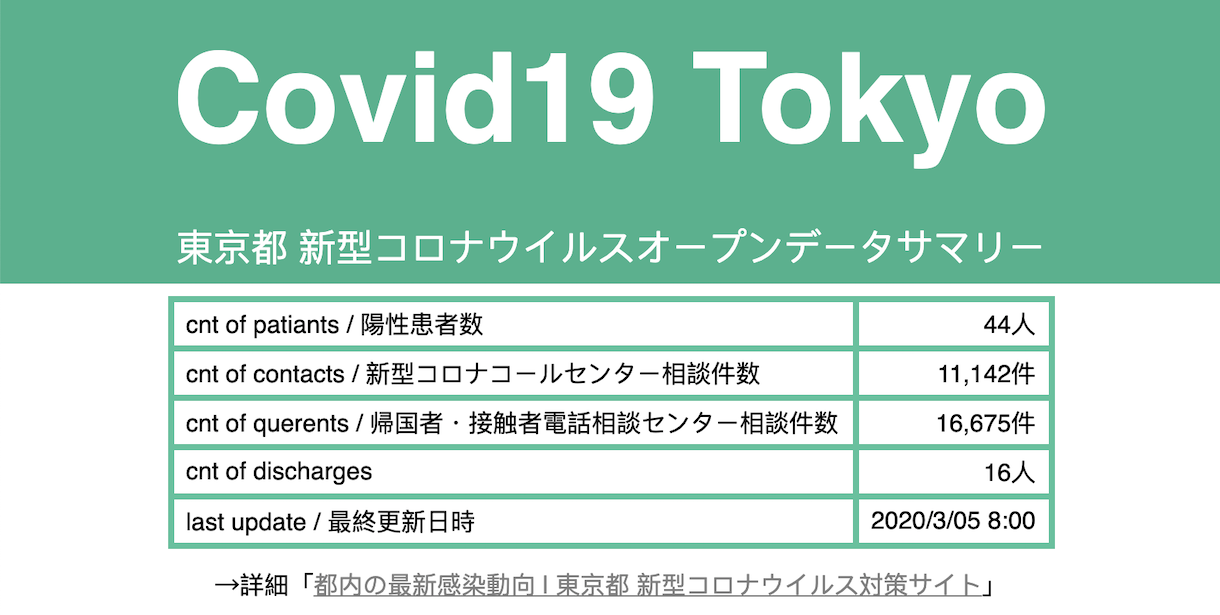
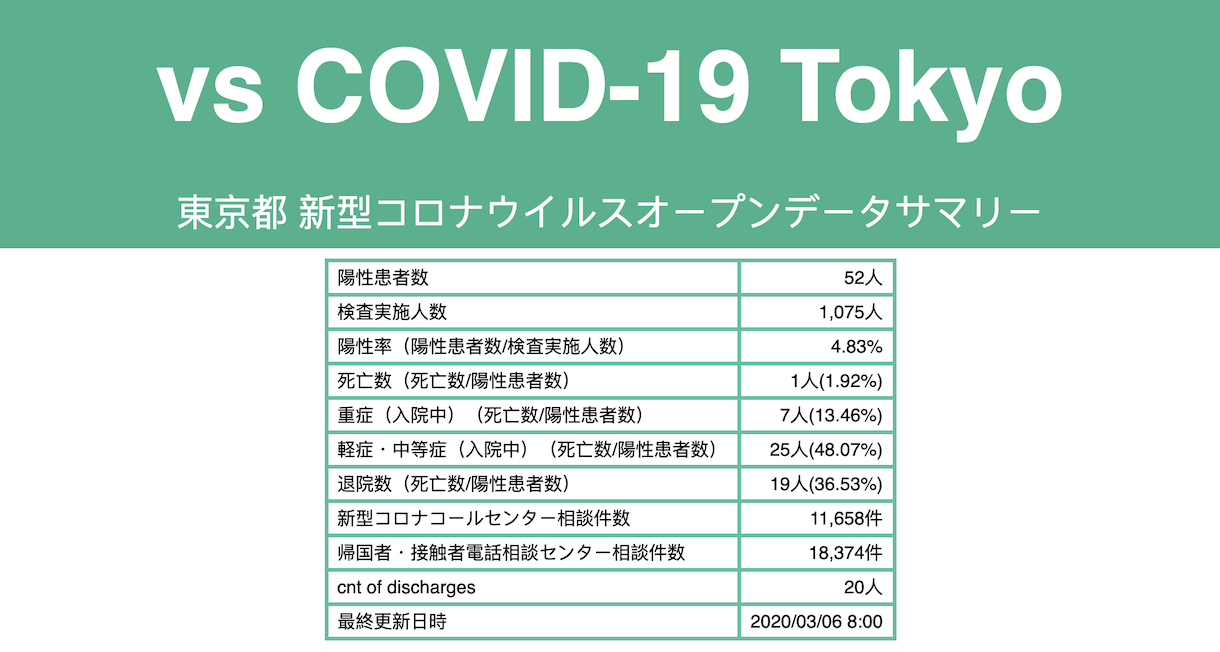
rename

diff --git a/tokyo.html b/tokyo.html
@@ -3,7 +3,7 @@
 <link rel="apple-touch-icon" href="tokyo.png"/>
 <meta property="og:image" content="tokyo.png"/>
 <meta name="format-detection" content="telephone=no"/>
-<title>Covid19 Tokyo - 東京都 新型コロナウイルスオープンデータサマリー</title>
+<title>vs COVID-19 Tokyo - 東京都 新型コロナウイルスオープンデータサマリー</title>
 <script src="https://fukuno.jig.jp/app/csv/lib/fukuno.js"></script>
 <script>"use strict"
 
@@ -67,7 +67,7 @@ h1 {
 	padding: .3em;
 	background-color: #34b38b;
 	color: white;
-	font-size: 10vw;
+	font-size: 8vw;
 	text-align: center;
 }
 .subtitle {
@@ -112,7 +112,7 @@ a {
 </head>
 <body>
 
-<h1 id=title>Covid19 Tokyo</h1><div class=subtitle>東京都 新型コロナウイルスオープンデータサマリー</div>
+<h1 id=title>vs COVID-19 Tokyo</h1><div class=subtitle>東京都 新型コロナウイルスオープンデータサマリー</div>
 <div id="main"></div>
 <div id="link">→詳細「<a href=https://stopcovid19.metro.tokyo.lg.jp/>都内の最新感染動向 | 東京都 新型コロナウイルス対策サイト</a>」</div>
 <div id="debug"></div>
